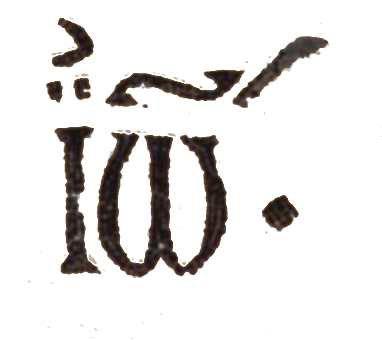
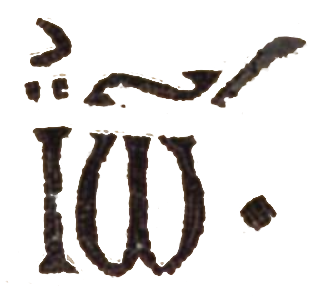
maj

diff --git a/Iconographie.html b/Iconographie.html
@@ -13,6 +13,7 @@
 			filter: drop-shadow(0 0 1px #ffffff);
 			width: 100px;
 		}
+		td {border: 1px #ffffff solid;}
 	</style>
 </head>
 <body>
@@ -47,6 +48,11 @@
 	<tr><td>Ψ</td><td>ψ</td></tr>
 	<tr><td>Ω</td><td>ω</td></tr>
 </table>
+<p>
+	Les lettres ne changent globalement pas sauf deux : « Σ » et « Ω ».<br>
+	La première étant représenté sous sa forme « Ϲ », issue de la déformation de sa forme minuscule finale « ς », et nommée « sigma lunaire » en référence à sa forme de croissant de lune.<br>
+	La seconde étant représenté uniquement sous sa forme minuscule « ω » mais avec la taille d'une lettre majuscule normale.
+</p>
 <h2>Ligatures</h2>
 <table>
 	<tr><th>Lettres</th><td>Graphie</th></tr>
@@ -58,17 +64,18 @@
 		<td>α + γ =</td>
 	</tr>
 	<tr>
-		<td>Π + Ρ =</td>
-		<td rowspan = 2><img src = Ligatures/ΠΡ-1.png alt = ΠΡ></td>
+		<td>Α + Η =</td>
+		<td rowspan = 2><img src = Ligatures/ΑΗ-1.png alt = ΑΗ></td>
 	</tr>
 	<tr>
-		<td>π + ρ =</td>
+		<td>α + η =</td>
 	</tr>
 	<tr>
-		<td>Η + Μ =</td>
+		<td>Α + Ρ =</td>
+		<td rowspan = 2><img src = Ligatures/ΑΡ-1.png alt = ΑΡ></td>
 	</tr>
 	<tr>
-		<td>η + μ =</td>
+		<td>α + ρ =</td>
 	</tr>
 	<tr>
 		<td>Η + Μ + Η + Ν =</td>
@@ -78,68 +85,94 @@
 		<td>η + μ + η + ν =</td>
 	</tr>
 	<tr>
-		<td>Ο + (Σ / Ϲ) =</td>
+		<td>Ο + Σ =</td>
 		<td rowspan = 2><img src = Ligatures/ΟΣ-1.png alt = ΟΣ></td>
 	</tr>
 	<tr>
-		<td>ο + (σ / ς / ϲ) =</td>
+		<td>ο + σ =</td>
 	</tr>
 	<tr>
-		<td>Α + Ρ =</td>
-		<td rowspan = 2><img src = Ligatures/ΑΡ-1.png alt = ΑΡ></td>
+		<td>Π + Ρ =</td>
+		<td rowspan = 2><img src = Ligatures/ΠΡ-1.png alt = ΠΡ></td>
 	</tr>
 	<tr>
-		<td>α + ρ =</td>
+		<td>π + ρ =</td>
+	</tr>
+	<tr>
+		<td>Η + Μ =</td>
+		<td rowspan = 2><img src = Ligatures/ΗΜ-1.png alt = ΗΜ></td>
+	</tr>
+	<tr>
+		<td>η + μ =</td>
 	</tr>
 </table>
 <h2>Textes</h2>
-<h3>(Le) Saint</h3>
+<h3>(Le) Saint / (La) Sainte</h3>
 <table>
 	<tr><th>Textes</th><th>Graphie</th></tr>
 	<tr>
-		<td>(Ο) ΑΓΙΟΣ</td>
-		<td rowspan = 2><img src = Textes/Ο-ΑΓΙΟΣ-1.png alt = Ο-ΑΓΙΟΣ></td>
+		<td>(Ὁ) ΆΓΙΟΣ</td>
+		<td rowspan = 2><img src = Textes/Ὁ-ΆΓΙΟΣ-1.png alt = Ὁ-ΆΓΙΟΣ></td>
 	</tr>
 	<tr>
-		<td>(ο) αγιος</td>
+		<td>(ὁ) άγιος</td>
+	</tr>
+	<tr>
+		<td>(Ἡ) ἉΓΊΑ</td>
+		<td rowspan = 2><img src = Textes/Ἡ-ἉΓΊΑ-1.png alt = Ἡ-ἉΓΊΑ></td>
+	</tr>
+	<tr>
+		<td>(ἡ) ἁγία</td>
 	</tr>
 </table>
 <h3>Mère de Dieu</h3>
 <table>
-	<tr><th colspan = 2>Textes</th><th>Graphie</th></tr>
+	<tr><th>Textes</th><th>Graphie</th></tr>
 	<tr>
 		<td>ΜΗΤΗΡ ΘΕΟΥ</td>
-		<td>ΜΡ ΘΥ</td>
-		<td rowspan = 2><img src = Textes/ΜΡ-ΘΥ-1.png alt = ΜΡ-ΘΥ></td>
 	</tr>
 	<tr>
 		<td>μητηρ θεου</td>
+	</tr>
+	<tr>
+		<td>ΜΡ ΘΥ</td>
+		<td rowspan = 2><img src = Textes/ΜΡ-1.png alt = ΜΡ><img src = Textes/ΘΥ-1.png alt = ΘΥ></td>
+	</tr>
+	<tr>
 		<td>μρ θυ</td>
 	</tr>
 </table>
 <h3>Jésus-Christ</h3>
 <table>
-	<tr><th colspan = 2>Textes</th><th>Graphie</th></tr>
+	<tr><th>Textes</th><th>Graphie</th></tr>
 	<tr>
 		<td>ΙΗΣΟΥΣ ΧΡΙΣΤΟΣ</td>
+	</tr>
+	<tr>
+		<td>ιησους χριστος</td>
+	</tr>
+	<tr>
 		<td>ΙΣ ΧΣ</td>
 		<td rowspan = 2><img src = Textes/ΙΣ-1.png alt = ΙΣ><img src = Textes/ΧΣ-1.png alt = ΧΣ></td>
 	</tr>
 	<tr>
-		<td>ιησους χριστος</td>
 		<td>ις χς</td>
 	</tr>
 </table>
 <h3>Jésus-Christ Fils de Dieu Sauveur</h3>
 <table>
-	<tr><th colspan = 2>Textes</th><th>Graphie</th></tr>
+	<tr><th>Textes</th><th>Graphie</th></tr>
 	<tr>
 		<td>ΙΗΣΟΥΣ ΧΡΙΣΤΟΣ ΘΕΟΥ ΥΙΟΣ ΣΩΤΗΡ</td>
+	</tr>
+	<tr>
+		<td>ιησους χριστος θεου υιος σωτηρ</td>
+	</tr>
+	<tr>
 		<td>ΙΧΘΥΣ</td>
 		<td rowspan = 2><img src = Textes/ΙΧΘΥΣ-1.png alt = ΙΧΘΥΣ></td>
 	</tr>
 	<tr>
-		<td>ιησους χριστος θεου υιος σωτηρ</td>
 		<td>ιχθυσ</td>
 	</tr>
 </table>
@@ -147,35 +180,67 @@
 <table>
 	<tr><th>Textes</th><th>Graphie</th></tr>
 	<tr>
-		<td>Ο Ω Ν</td>
-		<td rowspan = 2><img src = Textes/Ο-Ω-Ν.png alt = Ο-Ω-Ν></td>
+		<td>Ὁ ὬΝ</td>
+		<td rowspan = 2><img src = Textes/Ὁ-ὬΝ-1.png alt = Ὁ-ὬΝ></td>
 	</tr>
 	<tr>
-		<td>ο ω ν</td>
+		<td>ὁ ὤν</td>
 	</tr>
 </table>
 <h3>(L')Archange / (Le) Chef</h3>
 <table>
-	<tr><th colspan = 2>Textes</th><th>Graphie</th></tr>
+	<tr><th>Textes</th><th>Graphie</th></tr>
 	<tr>
-		<td>(Ο) ΑΡΧΑΓΓΕΛΟΣ</td>
+		<td>(Ὁ) ἌΡΧΑΓΓΕΛΟΣ</td>
 	</tr>
 	<tr>
-		<td>(ο) αρχαγγελο</td>
+		<td>(ὁ) ἄρχαγγελο</td>
 	</tr>
 	<tr>
-		<td>(Ο) ΑΡΧΩΝ</td>
-		<td rowspan = 2><img src = Textes/Ο-ΑΡΧΩΝ-1.png alt = Ο-ΑΡΧΩΝ></td>
+		<td>(Ὁ) ἌΡΧΩΝ</td>
+		<td rowspan = 2><img src = Textes/Ὁ-ἌΡΧΩΝ-1.png alt = Ὁ-ἌΡΧΩΝ></td>
 	</tr>
 	<tr>
-		<td>(ο) αρχων</td>
+		<td>(ὁ) ἄρχων</td>
 	</tr>
 	<tr>
-		<td>(Ο) ΑΡ</td>
-		<td rowspan = 2><img src = Textes/ΑΡ-1.png alt = ΑΡ></td>
+		<td>(Ὁ) ἌΡ</td>
+		<td rowspan = 2><img src = Textes/Ὁ-ἌΡ-1.png alt = Ὁ-ἌΡ></td>
+		<td rowspan = 2><img src = Textes/ἌΡ-1.png alt = ἌΡ></td>
 	</tr>
 	<tr>
-		<td>(ο) αρ</td>
+		<td>(ὁ) ἄρ</td>
+	</tr>
+</table>
+<h3>Noms</h3>
+<h4>Michel</h4>
+<table>
+	<tr>
+		<td>ΜΙΧΑΉΛ</td>
+		<td rowspan = 2><img src = Textes/ΜΙΧΑΉΛ-1.png alt = ΜΙΧΑΉΛ></td>
+	</tr>
+	<tr>
+		<td>μιχαηλ</td>
+	</tr>
+</table>
+<h4>Gabriel</h4>
+<table>
+	<tr>
+		<td>ΓΑΒΡΙΗΛ</td>
+		<td rowspan = 2><img src = Textes/ΓΑΒΡΙΉΛ-1.png alt = ΓΑΒΡΙΉΛ></td>
+	</tr>
+	<tr>
+		<td>γαβριηλ</td>
+	</tr>
+</table>
+<h4>Érasme</h4>
+<table>
+	<tr>
+		<td>ΕΡΑΣΜΟΣ</td>
+		<td rowspan = 2><img src = Textes/ΕΡΑΣΜΟΣ-1.png alt = ΕΡΑΣΜΟΣ></td>
+	</tr>
+	<tr>
+		<td>ερασμος</td>
 	</tr>
 </table>
 
